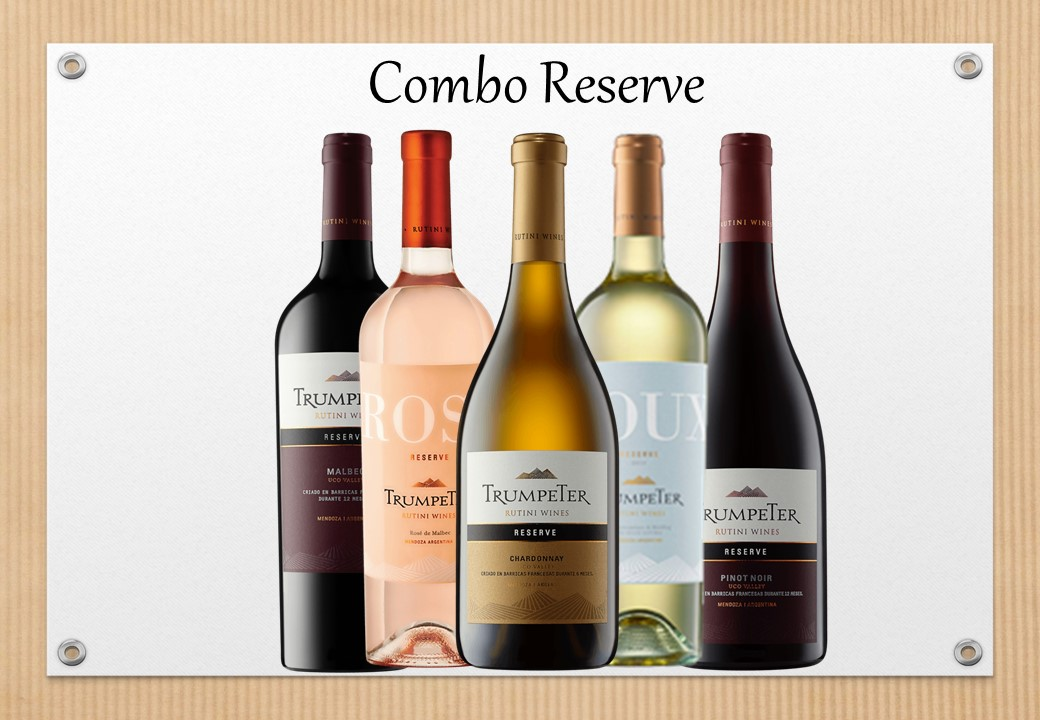
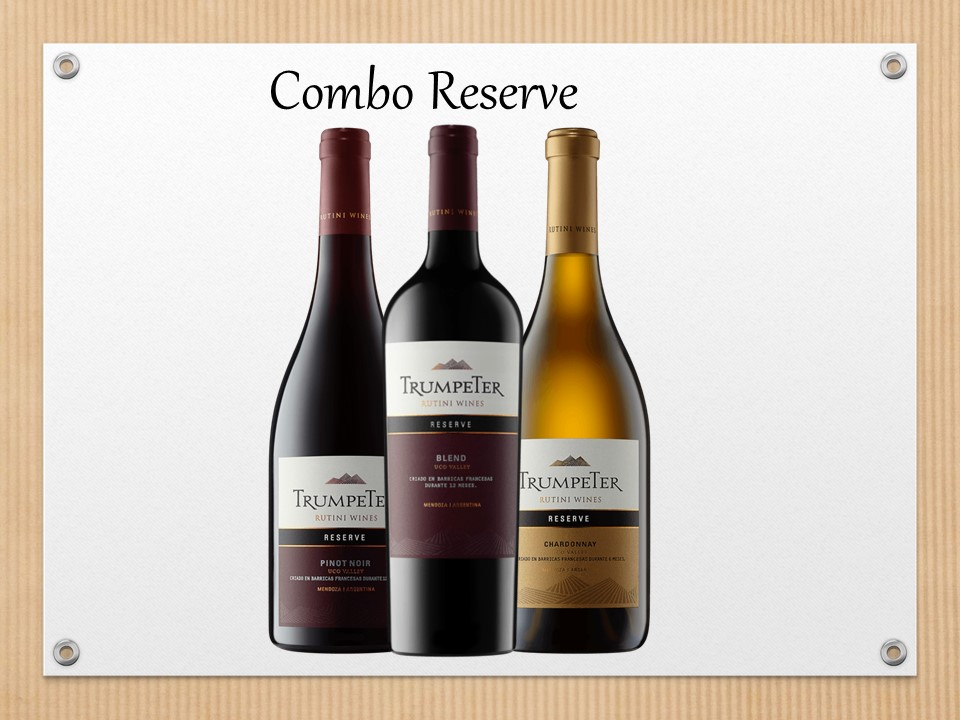
Se actualizo el comboreserve.php

diff --git a/promociones/comboreserve.php b/promociones/comboreserve.php
@@ -33,9 +33,9 @@
         </div>
         <div>
             <p class="desc">
-                El combo trae un un vino Trumpeter Reserve Malbec, un vino Trumpeter Reserve Rosé de Malbec un vino Trumpeter Reserve Chardonnay, un vino Trumpeter Reserve Doux, 
-                y un vino Trumpeter Reserve Pinot Noir. Una colección de vinos Trumpeter Reserve, vinos de buena calidad.<br>
-                Contenido: 750 ml. x5<br>
+                El combo trae un un vino Trumpeter Reserve Blend, un vino Trumpeter Reserve Chardonnay y un vino Trumpeter Reserve Pinot Noir. 
+                Una colección de vinos Trumpeter Reserve, vinos de buena calidad.<br>
+                Contenido: 750 ml. x3<br>
             </p>
             <h3 class="titular" id="titucontacto">Consultá precio y stock mandando un mensaje a través de:</h3>
             <div class="mcontacto">
